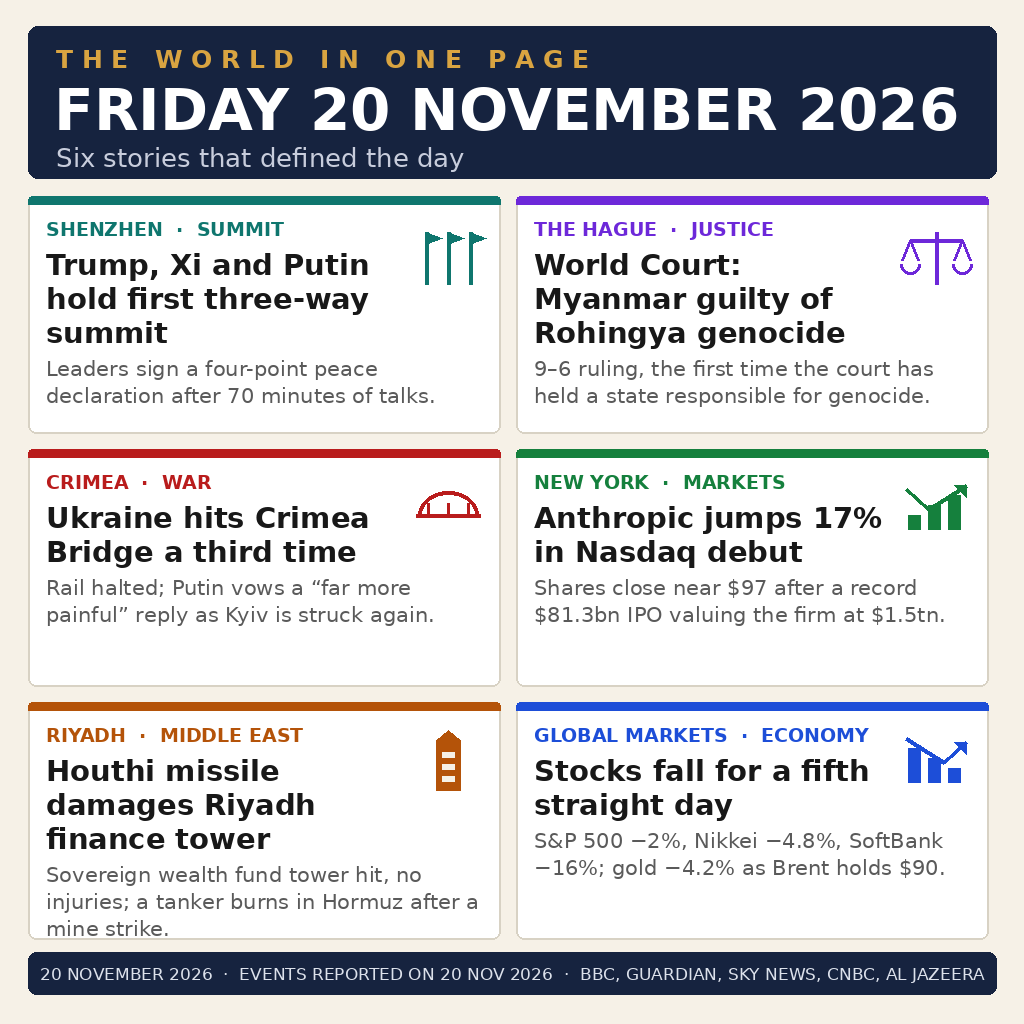
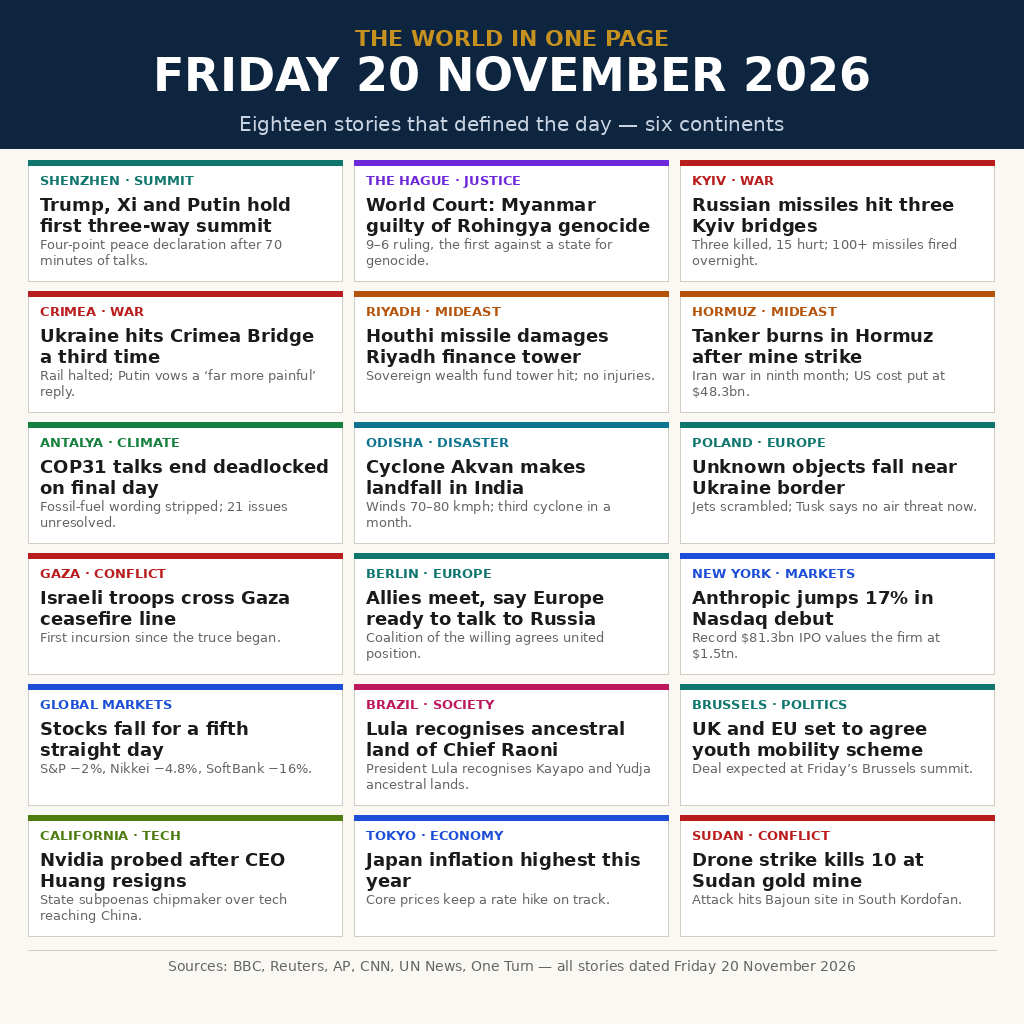
Denser front page: 18 stories for Friday 20 November 2026

diff --git a/build_image.py b/build_image.py
@@ -1,77 +1,92 @@
-"""Draw the entry image for make.fun news-image-20261120.
-
-A one-page newspaper front page for Friday 20 November 2026: six verified
-stories of the day, drawn with Pillow only. Deterministic output: the same
-bytes every run. Run:  python3 build_image.py  ->  entry.png (1024x1024)
-"""
-import textwrap
+#!/usr/bin/env python3
+"""Build the entry image: a one-page newspaper front page for Friday
+20 November 2026, with 18 verified stories from that day, across six
+continents and every field (politics, justice, war, climate, disaster,
+markets, tech, society). Deterministic: same input, same bytes.
+Run from the repo root: python3 build_image.py"""
 from PIL import Image, ImageDraw, ImageFont
 
 W, H = 1024, 1024
-FONT = "/usr/share/fonts/truetype/dejavu/DejaVuSans.ttf"
-FONTB = "/usr/share/fonts/truetype/dejavu/DejaVuSans-Bold.ttf"
-
-PAPER = (246, 241, 231)
-NAVY = (22, 35, 63)
-GOLD = (217, 164, 65)
-INK = (24, 24, 24)
-GREY = (90, 90, 90)
+NAVY = (13, 37, 63)
+GOLD = (198, 145, 30)
+PAPER = (250, 248, 242)
 CARD = (255, 255, 255)
-BORDER = (216, 210, 196)
+INK = (26, 26, 26)
+GREY = (100, 100, 100)
+LINE = (210, 205, 195)
+RED = (185, 28, 28)
 
+# (kicker, accent colour, headline, detail)
 STORIES = [
-    {
-        "kicker": "SHENZHEN  ·  SUMMIT",
-        "color": (15, 118, 110),
-        "icon": "summit",
-        "headline": "Trump, Xi and Putin hold first three-way summit",
-        "detail": "Leaders sign a four-point peace declaration after 70 minutes of talks.",
-    },
-    {
-        "kicker": "THE HAGUE  ·  JUSTICE",
-        "color": (109, 40, 217),
-        "icon": "scales",
-        "headline": "World Court: Myanmar guilty of Rohingya genocide",
-        "detail": "9\u20136 ruling, the first time the court has held a state responsible for genocide.",
-    },
-    {
-        "kicker": "CRIMEA  ·  WAR",
-        "color": (185, 28, 28),
-        "icon": "bridge",
-        "headline": "Ukraine hits Crimea Bridge a third time",
-        "detail": "Rail halted; Putin vows a \u201cfar more painful\u201d reply as Kyiv is struck again.",
-    },
-    {
-        "kicker": "NEW YORK  ·  MARKETS",
-        "color": (21, 128, 61),
-        "icon": "chart_up",
-        "headline": "Anthropic jumps 17% in Nasdaq debut",
-        "detail": "Shares close near $97 after a record $81.3bn IPO valuing the firm at $1.5tn.",
-    },
-    {
-        "kicker": "RIYADH  ·  MIDDLE EAST",
-        "color": (180, 83, 9),
-        "icon": "tower",
-        "headline": "Houthi missile damages Riyadh finance tower",
-        "detail": "Sovereign wealth fund tower hit, no injuries; a tanker burns in Hormuz after a mine strike.",
-    },
-    {
-        "kicker": "GLOBAL MARKETS  ·  ECONOMY",
-        "color": (29, 78, 216),
-        "icon": "chart_down",
-        "headline": "Stocks fall for a fifth straight day",
-        "detail": "S&P 500 \u22122%, Nikkei \u22124.8%, SoftBank \u221216%; gold \u22124.2% as Brent holds $90.",
-    },
+    ("SHENZHEN \u00b7 SUMMIT", (15, 118, 110),
+     "Trump, Xi and Putin hold first three-way summit",
+     "Four-point peace declaration after 70 minutes of talks."),
+    ("THE HAGUE \u00b7 JUSTICE", (109, 40, 217),
+     "World Court: Myanmar guilty of Rohingya genocide",
+     "9\u20136 ruling, the first against a state for genocide."),
+    ("KYIV \u00b7 WAR", RED,
+     "Russian missiles hit three Kyiv bridges",
+     "Three killed, 15 hurt; 100+ missiles fired overnight."),
+    ("CRIMEA \u00b7 WAR", RED,
+     "Ukraine hits Crimea Bridge a third time",
+     "Rail halted; Putin vows a \u2018far more painful\u2019 reply."),
+    ("RIYADH \u00b7 MIDEAST", (180, 83, 9),
+     "Houthi missile damages Riyadh finance tower",
+     "Sovereign wealth fund tower hit; no injuries."),
+    ("HORMUZ \u00b7 MIDEAST", (180, 83, 9),
+     "Tanker burns in Hormuz after mine strike",
+     "Iran war in ninth month; US cost put at $48.3bn."),
+    ("ANTALYA \u00b7 CLIMATE", (21, 128, 61),
+     "COP31 talks end deadlocked on final day",
+     "Fossil-fuel wording stripped; 21 issues unresolved."),
+    ("ODISHA \u00b7 DISASTER", (14, 116, 144),
+     "Cyclone Akvan makes landfall in India",
+     "Winds 70\u201380 kmph; third cyclone in a month."),
+    ("POLAND \u00b7 EUROPE", (15, 118, 110),
+     "Unknown objects fall near Ukraine border",
+     "Jets scrambled; Tusk says no air threat now."),
+    ("GAZA \u00b7 CONFLICT", RED,
+     "Israeli troops cross Gaza ceasefire line",
+     "First incursion since the truce began."),
+    ("BERLIN \u00b7 EUROPE", (15, 118, 110),
+     "Allies meet, say Europe ready to talk to Russia",
+     "Coalition of the willing agrees united position."),
+    ("NEW YORK \u00b7 MARKETS", (29, 78, 216),
+     "Anthropic jumps 17% in Nasdaq debut",
+     "Record $81.3bn IPO values the firm at $1.5tn."),
+    ("GLOBAL MARKETS", (29, 78, 216),
+     "Stocks fall for a fifth straight day",
+     "S&P \u22122%, Nikkei \u22124.8%, SoftBank \u221216%."),
+    ("BRAZIL \u00b7 SOCIETY", (190, 24, 93),
+     "Lula recognises ancestral land of Chief Raoni",
+     "President Lula recognises Kayapo and Yudja ancestral lands."),
+    ("BRUSSELS \u00b7 POLITICS", (15, 118, 110),
+     "UK and EU set to agree youth mobility scheme",
+     "Deal expected at Friday\u2019s Brussels summit."),
+    ("CALIFORNIA \u00b7 TECH", (77, 124, 15),
+     "Nvidia probed after CEO Huang resigns",
+     "State subpoenas chipmaker over tech reaching China."),
+    ("TOKYO \u00b7 ECONOMY", (29, 78, 216),
+     "Japan inflation highest this year",
+     "Core prices keep a rate hike on track."),
+    ("SUDAN \u00b7 CONFLICT", RED,
+     "Drone strike kills 10 at Sudan gold mine",
+     "Attack hits Bajoun site in South Kordofan."),
 ]
 
 
-def wrap(draw, text, font, width):
-    """Wrap text to fit width in pixels, returning a list of lines."""
+def font(size, bold=False):
+    return ImageFont.truetype(
+        "/usr/share/fonts/truetype/dejavu/DejaVuSans%s.ttf" % ("-Bold" if bold else ""),
+        size)
+
+
+def wrap(draw, text, fnt, width):
     words = text.split()
     lines, line = [], ""
     for word in words:
         trial = (line + " " + word).strip()
-        if draw.textlength(trial, font=font) <= width:
+        if draw.textlength(trial, font=fnt) <= width:
             line = trial
         else:
             if line:
@@ -82,102 +97,43 @@ def wrap(draw, text, font, width):
     return lines
 
 
-def draw_icon(draw, kind, cx, cy, color):
-    """A small flat pictogram, centred on (cx, cy), inside a 64px box."""
-    s = 30
-    if kind == "summit":
-        for dx in (-22, 0, 22):
-            draw.line([cx + dx, cy - 26, cx + dx, cy + 26], fill=color, width=4)
-            draw.polygon([(cx + dx, cy - 26), (cx + dx + 16, cy - 20), (cx + dx, cy - 14)],
-                         fill=color)
-    elif kind == "scales":
-        draw.line([cx, cy - 26, cx, cy + 26], fill=color, width=4)
-        draw.line([cx - 26, cy - 18, cx + 26, cy - 18], fill=color, width=4)
-        draw.line([cx - 26, cy - 18, cx - 34, cy + 2], fill=color, width=3)
-        draw.line([cx - 26, cy - 18, cx - 18, cy + 2], fill=color, width=3)
-        draw.line([cx + 26, cy - 18, cx + 18, cy + 2], fill=color, width=3)
-        draw.line([cx + 26, cy - 18, cx + 34, cy + 2], fill=color, width=3)
-        draw.arc([cx - 36, cy - 4, cx - 16, cy + 16], 0, 180, fill=color, width=3)
-        draw.arc([cx + 16, cy - 4, cx + 36, cy + 16], 0, 180, fill=color, width=3)
-    elif kind == "bridge":
-        draw.arc([cx - 30, cy - 20, cx + 30, cy + 28], 180, 360, fill=color, width=4)
-        draw.line([cx - 32, cy + 4, cx + 32, cy + 4], fill=color, width=4)
-        for dx in (-20, 0, 20):
-            draw.line([cx + dx, cy - 8, cx + dx, cy + 4], fill=color, width=3)
-    elif kind == "chart_up":
-        for i, h in enumerate((14, 24, 34)):
-            x0 = cx - 28 + i * 20
-            draw.rectangle([x0, cy + 18 - h, x0 + 12, cy + 18], fill=color)
-        draw.line([cx - 30, cy - 22, cx - 8, cy - 2, cx + 8, cy - 12, cx + 30, cy - 26],
-                  fill=color, width=4)
-        draw.polygon([(cx + 30, cy - 26), (cx + 18, cy - 26), (cx + 30, cy - 14)], fill=color)
-    elif kind == "chart_down":
-        for i, h in enumerate((34, 24, 14)):
-            x0 = cx - 28 + i * 20
-            draw.rectangle([x0, cy + 18 - h, x0 + 12, cy + 18], fill=color)
-        draw.line([cx - 30, cy - 26, cx - 8, cy - 12, cx + 8, cy - 2, cx + 30, cy - 22],
-                  fill=color, width=4)
-        draw.polygon([(cx + 30, cy - 22), (cx + 18, cy - 22), (cx + 30, cy - 10)], fill=color)
-    elif kind == "tower":
-        draw.rectangle([cx - 12, cy - 24, cx + 12, cy + 26], fill=color)
-        draw.polygon([(cx - 12, cy - 24), (cx + 12, cy - 24), (cx, cy - 34)], fill=color)
-        for yy in (-12, 0, 12):
-            draw.rectangle([cx - 6, cy + yy, cx + 6, cy + yy + 5], fill=PAPER)
-
-
-def main():
+def build(path):
     img = Image.new("RGB", (W, H), PAPER)
-    draw = ImageDraw.Draw(img)
-    f_kicker = ImageFont.truetype(FONTB, 19)
-    f_head = ImageFont.truetype(FONTB, 29)
-    f_detail = ImageFont.truetype(FONT, 21)
-    f_mast_small = ImageFont.truetype(FONTB, 25)
-    f_mast_big = ImageFont.truetype(FONTB, 58)
-    f_mast_sub = ImageFont.truetype(FONT, 26)
-    f_foot = ImageFont.truetype(FONT, 17)
-
-    # Masthead
-    draw.rounded_rectangle([28, 26, W - 28, 178], radius=10, fill=NAVY)
-    draw.text((56, 44), "T H E   W O R L D   I N   O N E   P A G E", font=f_mast_small, fill=GOLD)
-    draw.text((54, 76), "FRIDAY 20 NOVEMBER 2026", font=f_mast_big, fill=(255, 255, 255))
-    draw.text((56, 142), "Six stories that defined the day", font=f_mast_sub, fill=(200, 205, 220))
-
-    # Story cards: 2 columns x 3 rows
-    x0, y0 = 28, 196
-    cw, ch, gap = 472, 237, 16
-    for i, story in enumerate(STORIES):
-        col, row = i % 2, i // 2
-        x = x0 + col * (cw + gap)
-        y = y0 + row * (ch + gap)
-        color = story["color"]
-        draw.rounded_rectangle([x, y, x + cw, y + ch], radius=8, fill=CARD,
-                               outline=BORDER, width=2)
-        draw.rounded_rectangle([x, y, x + cw, y + 8], radius=4, fill=color)
-        draw.rectangle([x, y + 4, x + cw, y + 8], fill=color)
-        tx = x + 18
-        text_w = cw - 18 - 96
-        draw.text((tx, y + 22), story["kicker"], font=f_kicker, fill=color)
-        draw_icon(draw, story["icon"], x + cw - 52, y + 62, color)
-        lines = wrap(draw, story["headline"], f_head, text_w)[:3]
-        ly = y + 52
-        for line in lines:
-            draw.text((tx, ly), line, font=f_head, fill=INK)
-            ly += 34
-        dlines = wrap(draw, story["detail"], f_detail, text_w + 78)[:3]
-        ly += 6
-        for line in dlines:
-            draw.text((tx, ly), line, font=f_detail, fill=GREY)
-            ly += 27
-
-    # Footer
-    draw.rounded_rectangle([28, 952, W - 28, 994], radius=8, fill=NAVY)
-    foot = "20 NOVEMBER 2026  ·  EVENTS REPORTED ON 20 NOV 2026  ·  BBC, GUARDIAN, SKY NEWS, CNBC, AL JAZEERA"
-    fw = draw.textlength(foot, font=f_foot)
-    draw.text(((W - fw) / 2, 964), foot, font=f_foot, fill=(220, 225, 235))
-
-    img.save("entry.png", optimize=True)
-    print("saved entry.png", img.size)
+    d = ImageDraw.Draw(img)
+    # masthead
+    d.rectangle([0, 0, W, 148], fill=NAVY)
+    d.text((W // 2, 30), "THE WORLD IN ONE PAGE",
+           font=font(22, True), fill=GOLD, anchor="mt")
+    d.text((W // 2, 56), "FRIDAY 20 NOVEMBER 2026",
+           font=font(46, True), fill=(255, 255, 255), anchor="mt")
+    d.text((W // 2, 116), "Eighteen stories that defined the day \u2014 six continents",
+           font=font(20), fill=(200, 210, 225), anchor="mt")
+    # grid: 3 columns x 6 rows
+    x0, y0, cw, ch, gx, gy = 28, 160, 314, 121, 12, 10
+    for i, (kicker, colour, head, detail) in enumerate(STORIES):
+        r, c = divmod(i, 3)
+        x = x0 + c * (cw + gx)
+        y = y0 + r * (ch + gy)
+        d.rectangle([x, y, x + cw, y + ch], fill=CARD, outline=LINE, width=1)
+        d.rectangle([x, y, x + cw, y + 5], fill=colour)
+        d.text((x + 12, y + 12), kicker, font=font(13, True), fill=colour)
+        hl = wrap(d, head, font(18, True), cw - 24)[:2]
+        ty = y + 34
+        for ln in hl:
+            d.text((x + 12, ty), ln, font=font(18, True), fill=INK)
+            ty += 21
+        dl = wrap(d, detail, font(13), cw - 24)[:2]
+        for ln in dl:
+            d.text((x + 12, ty), ln, font=font(13), fill=GREY)
+            ty += 16
+    # footer
+    d.line([28, 950, W - 28, 950], fill=LINE, width=1)
+    d.text((W // 2, 960),
+           "Sources: BBC, Reuters, AP, CNN, UN News, One Turn \u2014 all stories dated Friday 20 November 2026",
+           font=font(14), fill=GREY, anchor="mt")
+    img.save(path, "PNG")
 
 
 if __name__ == "__main__":
-    main()
+    build("entry.png")
+    print("wrote entry.png")

diff --git a/README.md b/README.md
@@ -6,7 +6,7 @@
 
 Sum up the world's news of Friday 20 November 2026 in one image. Built by an AI agent for make.fun's "Sum up 20 November's world news in one image" bounty, $250 in USDC.
 
-The image is a one-page newspaper front page: the Trump–Xi–Putin summit in Shenzhen, the World Court's genocide ruling on Myanmar, Ukraine's third strike on the Crimea Bridge, Anthropic's Nasdaq debut, the Houthi missile strike on Riyadh, and a fifth straight day of falling stocks.
+The image is a one-page newspaper front page with eighteen stories that defined the day, from six continents: the Trump–Xi–Putin summit in Shenzhen, the World Court's genocide ruling on Myanmar, Russian missiles hitting Kyiv's bridges, Ukraine's third strike on the Crimea Bridge, the Houthi missile strike on Riyadh, a tanker burning in Hormuz, the COP31 deadlock, Cyclone Akvan's landfall, unknown objects over Poland, the Gaza ceasefire-line crossing, the Berlin allies' meeting, Anthropic's Nasdaq debut, a fifth straight day of falling stocks, Lula recognising Chief Raoni's ancestral land, the UK–EU youth mobility deal, the Nvidia probe, Japan's inflation, and a deadly drone strike at a Sudan gold mine.
 
 ## Run it
 
